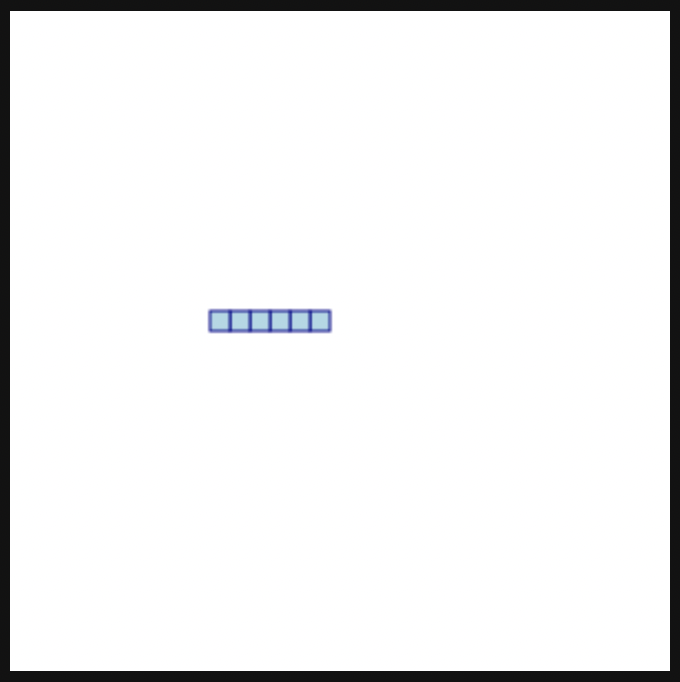
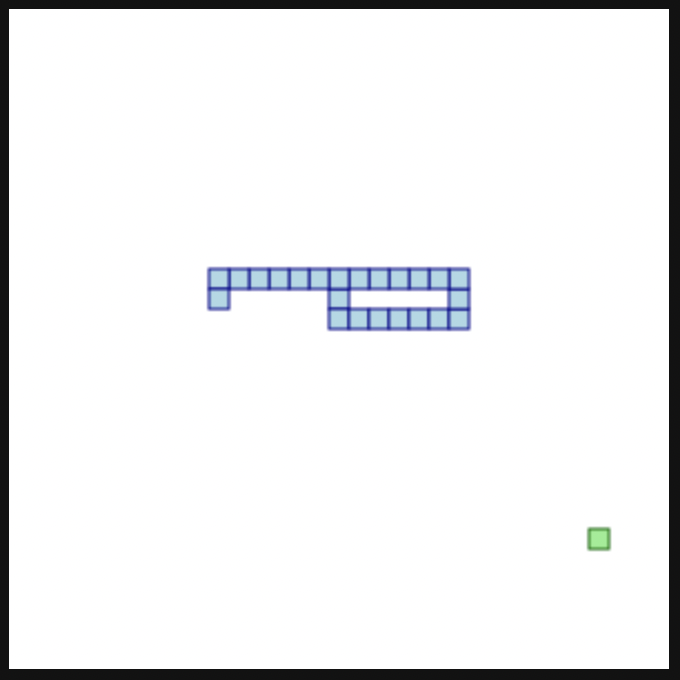
add boundry and collider

Changed region(s): [[0.2779, 0.3706, 0.7103, 0.4941], [0.8647, 0.7721, 0.9265, 0.8338], [0.9574, 0.0, 0.9882, 0.0309]]

diff --git a/pages/snake.js b/pages/snake.js
@@ -1,7 +1,8 @@
 import { useEffect, useState, useRef } from 'react';
 import { HeadLine } from "../components/Header";
 import { Matchfield, Score } from "../components/Snake";
-import { Container } from '../components/Memory';
+import { Container, Menu } from '../components/Memory';
+import Link from 'next/link';
 
 export default function Snake() {
     const canvasRef = useRef(null);
@@ -103,6 +104,18 @@ export default function Snake() {
         });
     }
 
+    function hasGameEnded(snake, snakeboard) {
+        for (let i = 4; i < snake.length; i++) {
+            const hasCollided = snake[i].x === snake[0].x && snake[i].y === snake[0].y;
+            if (hasCollided)
+                return true;
+        }
+        const hitLeftWall = snake[0].x < 0;
+        const hitRightWall = snake[0].x > snakeboard.width - 10;
+        const hitTopWall = snake[0].y < 0;
+        const hitBottomWall = snake[0].y > snakeboard.height - 10;
+        return hitLeftWall || hitRightWall || hitTopWall || hitBottomWall
+    }
 
     useEffect(() => {
         const snakeboard = document.getElementById("snakeboard");
@@ -123,10 +136,11 @@ export default function Snake() {
         generate_food(snakeboard, snake);
 
         setInterval(function onTick() {
+            if (hasGameEnded(snake, snakeboard)) return;
             change_direction(changeingDirection);
             clearCanvas(snakeboard, snakeboardCTX);
             drawSnake(snake, snakeboardCTX);
-            moveSnake(snake, directionX, directionY, snakeboard, score);
+            moveSnake(snake, directionX, directionY, snakeboard, score, event);
             drawFood(foodX, foodY, snakeboardCTX);
         }, 100)
 
@@ -147,6 +161,9 @@ export default function Snake() {
                 >
                 </Matchfield>
             </Container>
+            <Menu>
+                <Link href="/">Back to Collection</Link>
+            </Menu>
         </>
     )
 }
